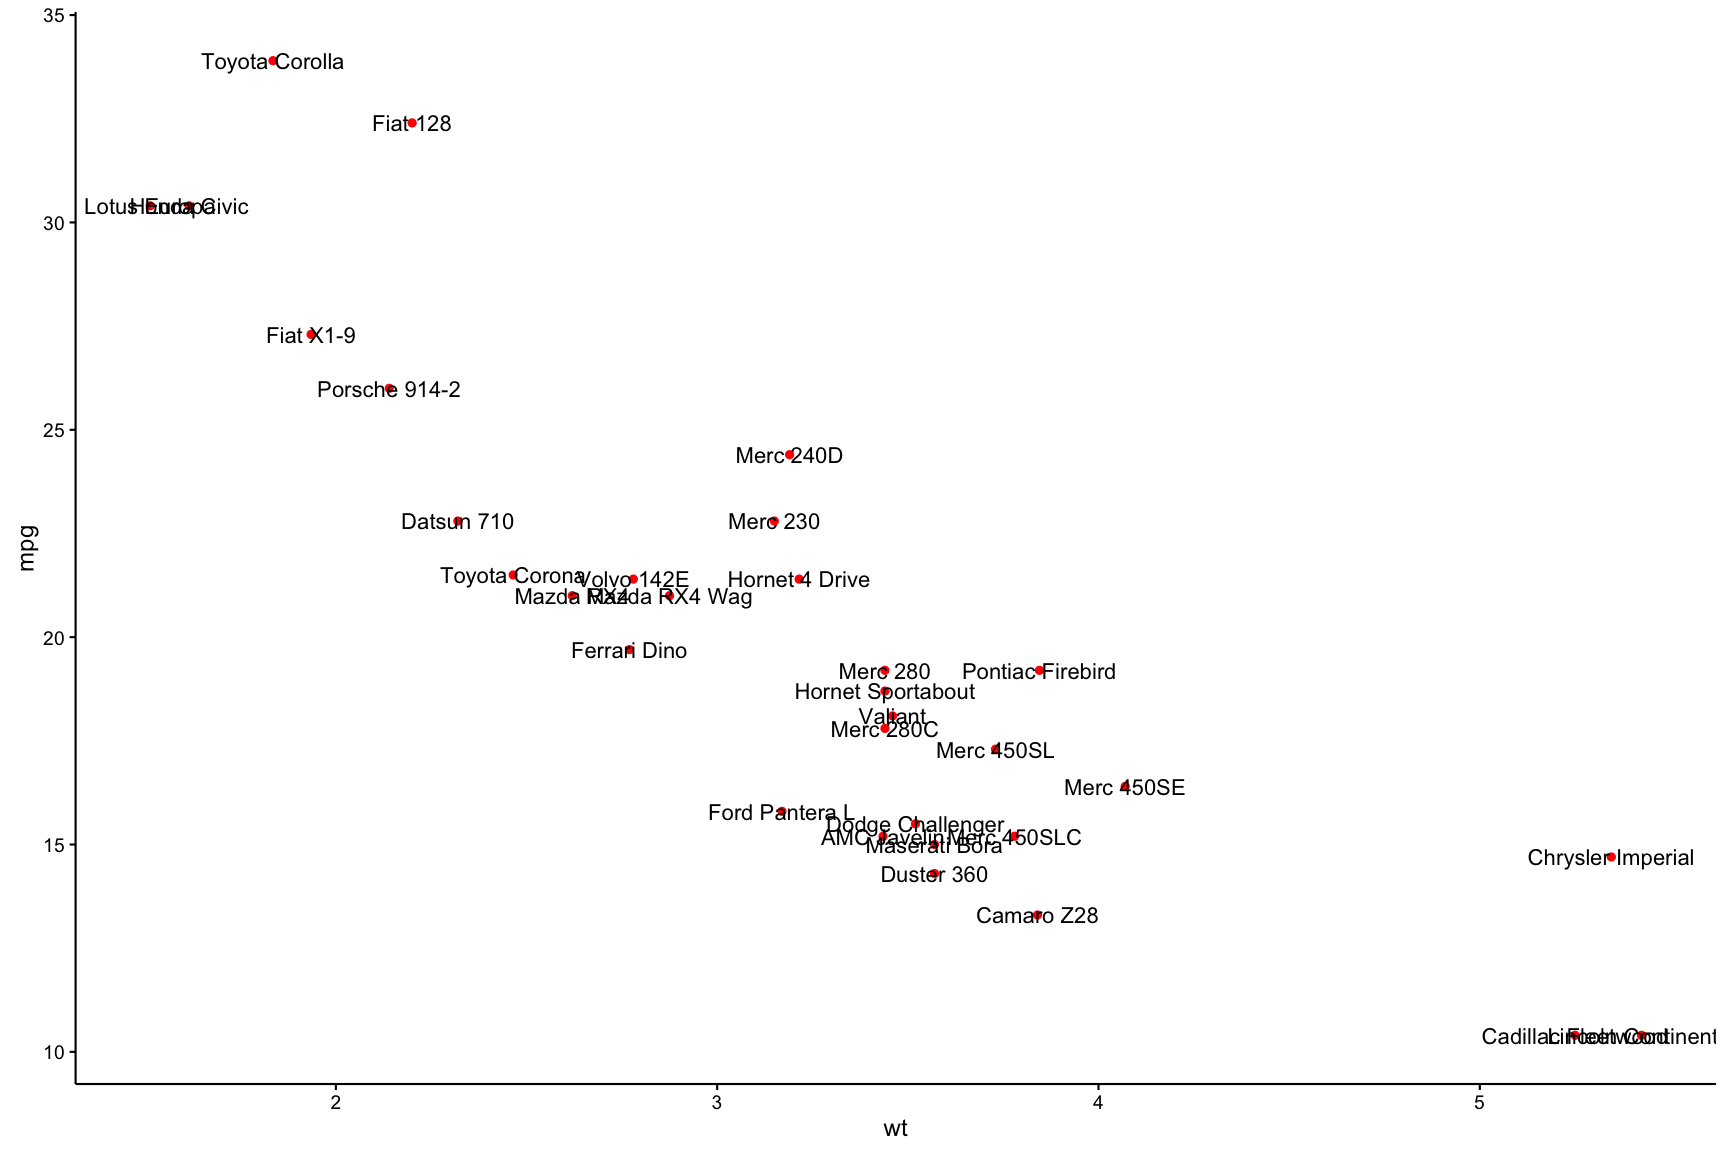
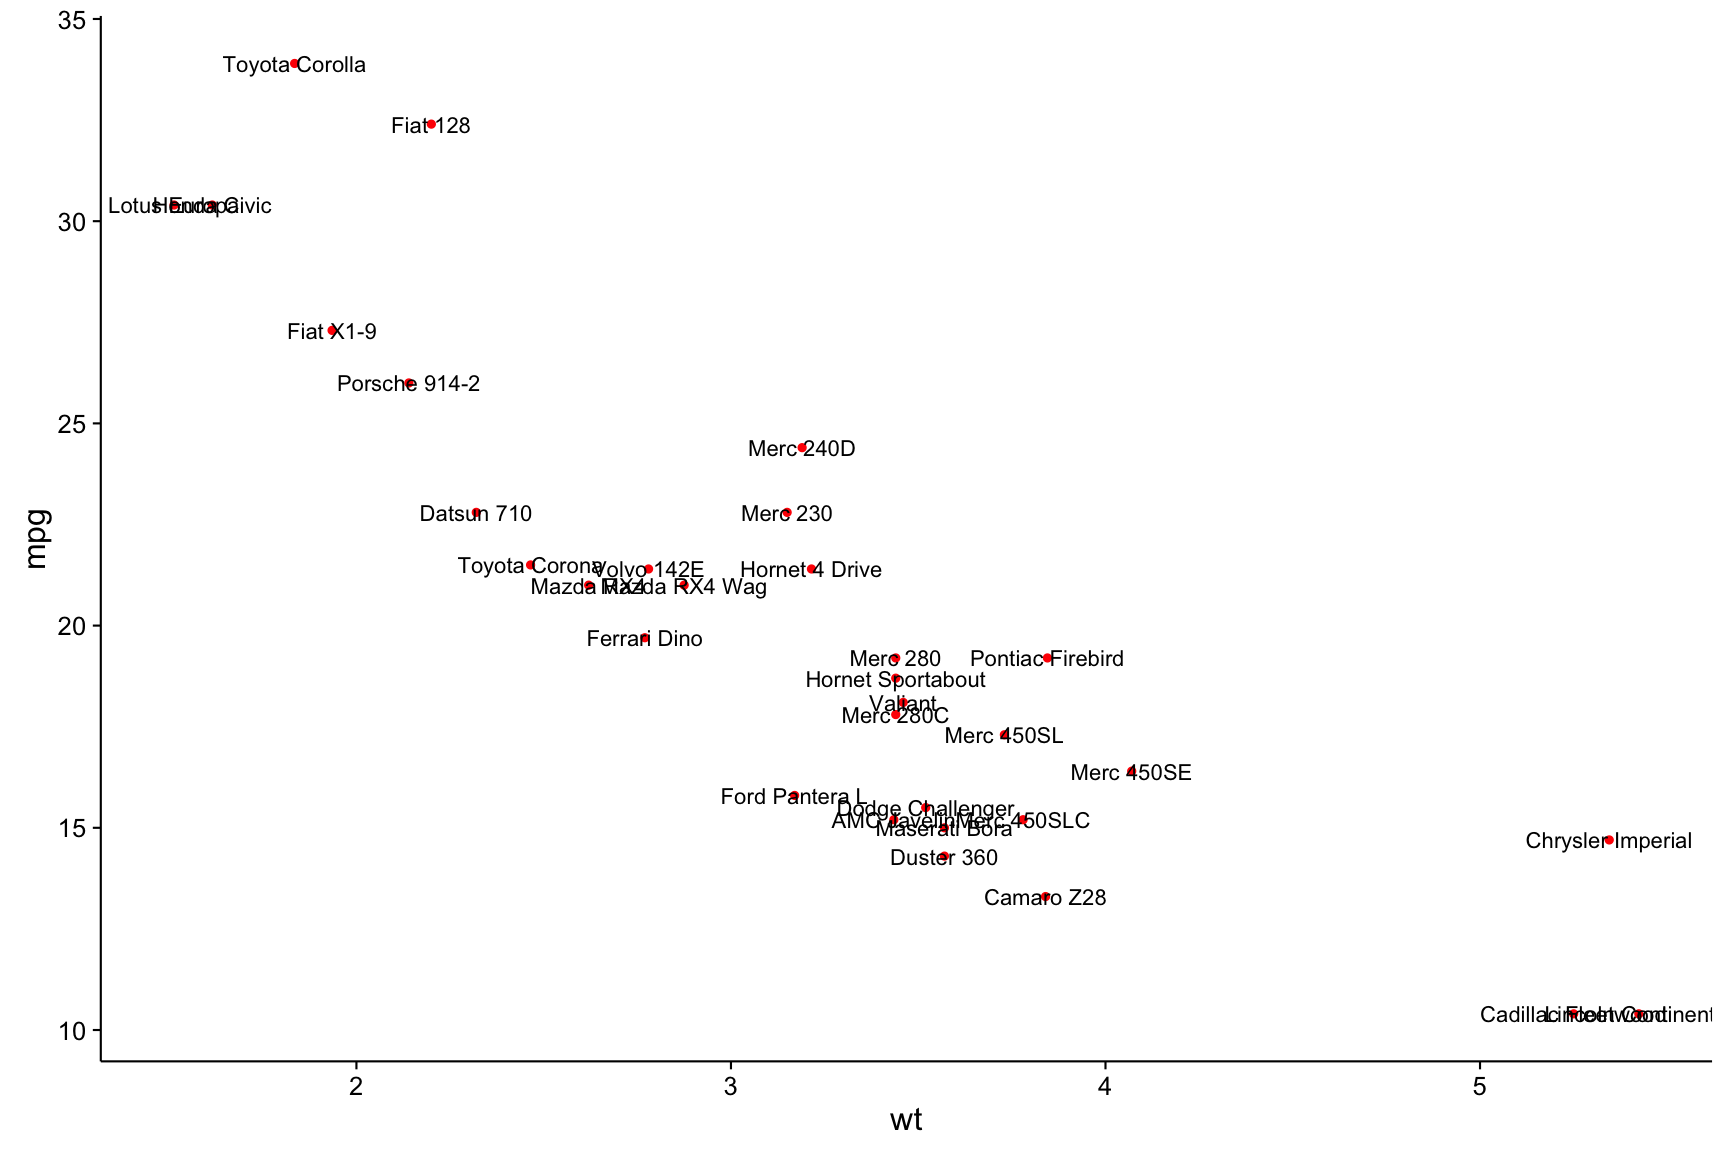
increase text size in figures

diff --git a/vignettes/ggrepel.md b/vignettes/ggrepel.md
@@ -13,7 +13,7 @@ library(ggplot2)
 ggplot(mtcars) +
   geom_point(aes(wt, mpg), color = 'red') +
   geom_text(aes(wt, mpg, label = rownames(mtcars))) +
-  theme_classic()
+  theme_classic(base_size = 16)
 ```
 
 ![plot of chunk geom_text](https://github.com/slowkow/ggrepel/blob/master/vignettes/figures/ggrepel/geom_text-1.png) 
@@ -29,7 +29,7 @@ library(ggrepel)
 ggplot(mtcars) +
   geom_point(aes(wt, mpg), color = 'red') +
   geom_text_repel(aes(wt, mpg, label = rownames(mtcars))) +
-  theme_classic()
+  theme_classic(base_size = 16)
 ```
 
 ![plot of chunk geom_text_repel](https://github.com/slowkow/ggrepel/blob/master/vignettes/figures/ggrepel/geom_text_repel-1.png) 
@@ -45,14 +45,14 @@ ggplot(mtcars) +
   geom_point(aes(wt, mpg), color = 'red') +
   geom_text_repel(
     aes(wt, mpg, label = rownames(mtcars)),
-    size = 4,
+    size = 5,
     fontface = 'bold',
     segment.color = 'red',
     label.padding = unit(0.5, "lines"),
     force = 2,
     max.iter = 1e4
   ) +
-  theme_classic()
+  theme_classic(base_size = 16)
 ```
 
 ![plot of chunk geom_text_repel_options](https://github.com/slowkow/ggrepel/blob/master/vignettes/figures/ggrepel/geom_text_repel_options-1.png) 
